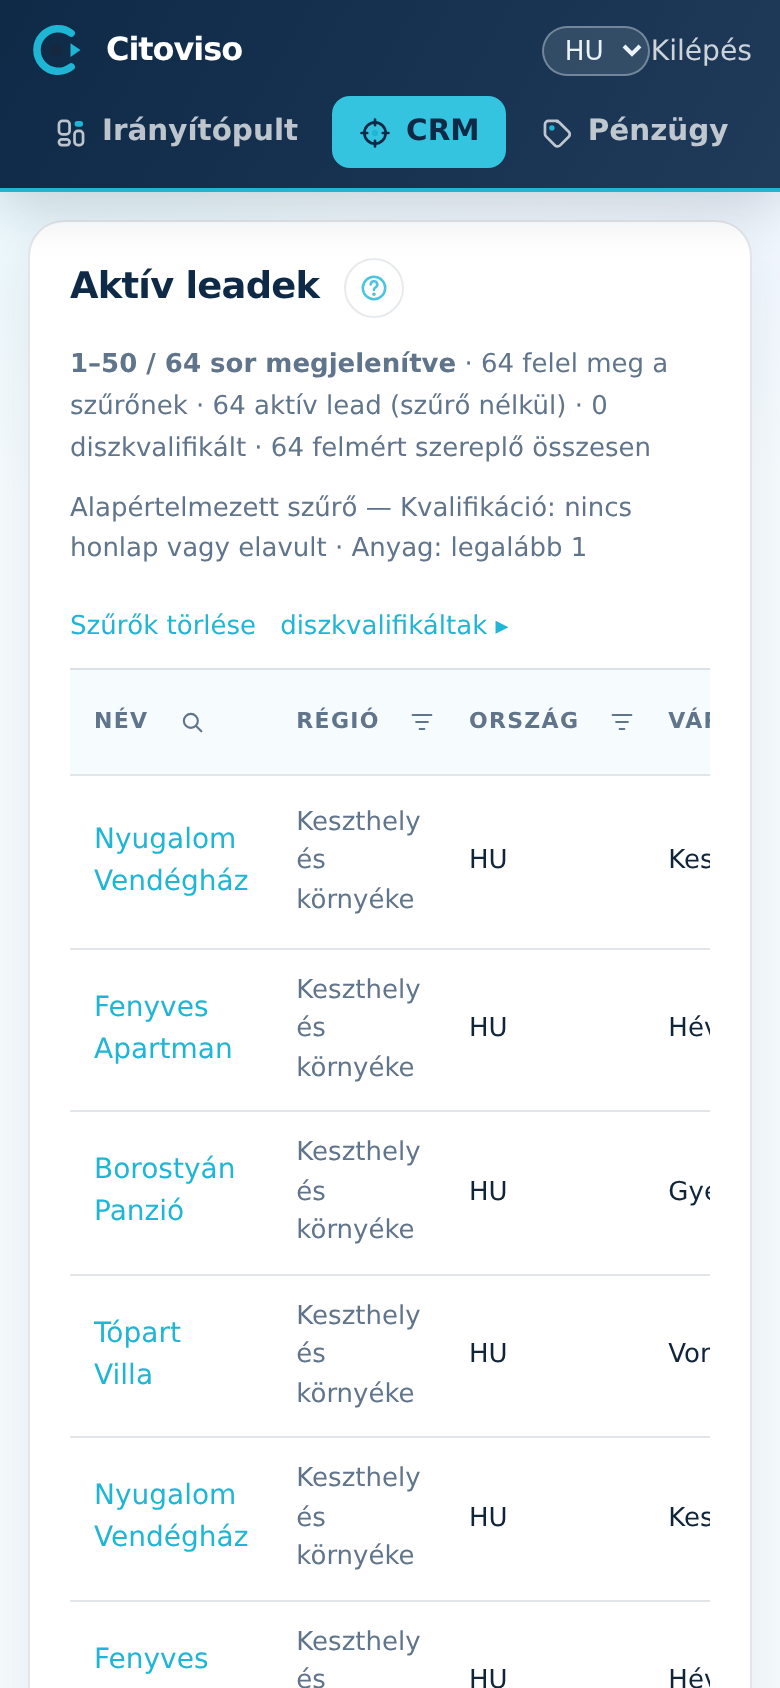
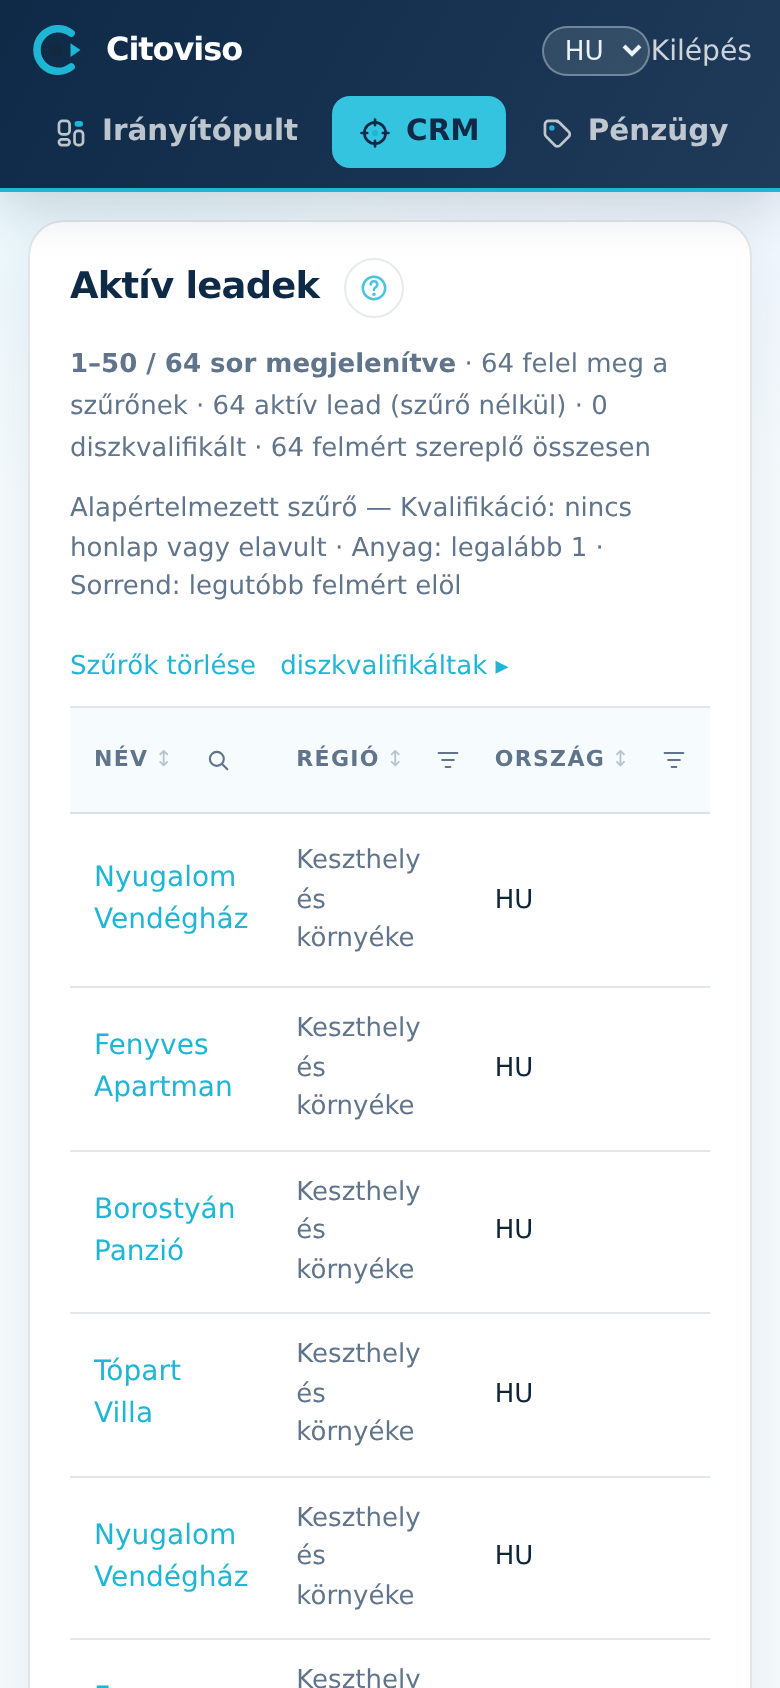
fix(lead-lista): a rendezés látszik is, a lap nem mond ellent magának, és megnevezi a sorrendjét
Az FK-003 újrafuttatása után a kiértékelő három leletet adott a MA szállított
felületre. Megmértem mind a hármat, és mind a három igaz volt.

① A RENDEZÉS LÁTHATATLAN VOLT. A nyíl csak a MÁR rendezett oszlopon jelent meg,
  tehát egy érintetlen listán semmi nem mondta, hogy a fejléc kattintható. Mérve:
  a link színe azonos a fejléc szövegével (rgb(96,116,139)), aláhúzás nincs —
  egyedül a `cursor:pointer` árulkodott, ami TELEFONON NEM LÉTEZIK. A tegnap
  bekötött tíz oszlopos rendezés így rejtett funkció volt. Most minden rendezhető
  fejléc halvány ↕-et visel, ami a rendezett oszlopon élő ↑/↓-re vált, és az
  oszlopnév kiemelt színt kap.
  Ráadás, ugyanitt: a rendezés visszaugrik az ELSŐ lapra — 593 sor újrarendezése
  közben a 6. lapon maradni annyi, mint a lista közepén ébredni.

② A LAP ELLENTMONDOTT MAGÁNAK. „nincs szűrő” és „593 felel meg a szűrőnek”
  egymás alatt, ~25 px-re. A találat-szám egy SZŰRŐRŐL tett állítás, ezért csak
  akkor jelenik meg, ha fut szűrő; szűrés nélkül az aktív állomány sem kap
  „(szűrő nélkül)” kiegészítést, mert nincs mihez képest.

③ A SORRENDNEK NEM VOLT NEVE. A lista mindig rendezve érkezik (legutóbb felmért
  elöl), de ezt semmi nem mondta ki — mérve a lap sehol nem említette. Most a
  szűrő-sor végén ott áll: „Sorrend: legutóbb felmért elöl”, rendezés után
  „Sorrend: Város (növekvő)”.

Őr: 94 → 111 állítás. Mindhárom lelethez szerkezeti állítás, és MINDHÁRMAT
visszarontva megmértem, hogy fog: ① 10 bukás ② 2 bukás ③ 1 bukás.
[…]

diff --git a/src/console/views.ts b/src/console/views.ts
@@ -724,12 +724,29 @@ function qs(q: LeadQuery, over: Record<string, string | number | boolean | undef
   return s ? `?${s}` : "/leads";
 }
 
-/** Sortable header link (toggles asc/desc; arrow shows current sort). */
+/**
+ * Sortable header link (toggles asc/desc).
+ *
+ * ⛔ Elek, 2026-09-12: the arrow only appeared on the ALREADY sorted column, so on an
+ * unsorted list nothing said the header was clickable at all — measured, the link had
+ * the same colour as the plain header text and no underline, leaving `cursor:pointer`
+ * as the sole hint, and a phone has no cursor. A ten-column sort feature nobody can
+ * see is not a feature. Every sortable header now carries a faint ↕ that turns into
+ * the live ↑/↓ when it is the active sort.
+ *
+ * Sorting also resets to page 1: re-ordering 593 rows while staying on page 6 lands
+ * the operator in the middle of a list they have not seen the start of.
+ */
 function sortHead(label: string, key: string, q: LeadQuery): string {
+  const lang = consoleLang();
   const active = q.sort === key;
   const nextDir = active && q.dir !== "asc" ? "asc" : "desc";
-  const arrow = active ? (q.dir === "asc" ? " ↑" : " ↓") : "";
-  return `<a href="${qs(q, { sort: key, dir: nextDir })}">${esc(label)}${arrow}</a>`;
+  const mark = active ? (q.dir === "asc" ? "↑" : "↓") : "↕";
+  return (
+    `<a class="con-sorth${active ? " on" : ""}" href="${qs(q, { sort: key, dir: nextDir, page: undefined })}"` +
+    ` title="${esc(T(lang, "Rendezés e szerint az oszlop szerint"))}">${esc(label)}` +
+    `<span class="con-sorth__m" aria-hidden="true">${mark}</span></a>`
+  );
 }
 
 function photoCell(n: number, sv: boolean): string {
@@ -1001,6 +1018,17 @@ export function leadsPage(result: LeadListResult, q: LeadQuery = {}): string {
     ? `${q.defaulted ? T(lang, "Alapértelmezett szűrő") : T(lang, "{n} aktív szűrő", { n: activeFilters.length })} — <span data-filter-summary>${esc(summaryText)}</span>`
     : `<span data-filter-summary>${T(lang, "nincs szűrő")}</span>`;
 
+  // ── What ORDER am I reading? ────────────────────────────────────────────────
+  // The list always arrives sorted, but until now only an ACTIVE sort said so — an
+  // untouched list came back newest-first with nothing naming that order, so the
+  // operator could not tell what they were scanning (Elek, 2026-09-12).
+  const sortLine = q.sort
+    ? T(lang, "Sorrend: {col} ({dir})", {
+        col: columnLabel(q.sort as LeadColumnKey, lang),
+        dir: q.dir === "asc" ? T(lang, "növekvő") : T(lang, "csökkenő"),
+      })
+    : T(lang, "Sorrend: legutóbb felmért elöl");
+
   // ── View switch that CARRIES the operator's state ───────────────────────────
   // Going "diszkvalifikáltak ▸" and back used to drop the query, so a cleared list
   // (593 rows) silently snapped back to the default 260 with no word said. The
@@ -1016,7 +1044,7 @@ export function leadsPage(result: LeadListResult, q: LeadQuery = {}): string {
   );
 
   const toolbar = `<div class="row" style="justify-content:space-between;align-items:center;gap:10px;margin-bottom:10px">
-    <span class="mut small">${filterLine}</span>
+    <span class="mut small">${filterLine} · <span data-sort-summary>${esc(sortLine)}</span></span>
     <span class="row" style="gap:12px">
       ${activeFilters.length ? `<a class="small" href="${clearHref}">${T(lang, "Szűrők törlése")}</a>` : ""}
       <a class="small" href="${switchHref}">${
@@ -1034,12 +1062,22 @@ export function leadsPage(result: LeadListResult, q: LeadQuery = {}): string {
     result.pageSize && counts.matching > pageRows.length
       ? T(lang, "{from}–{to} / {n} sor megjelenítve", { from, to, n: counts.matching })
       : T(lang, "mind a {n} sor megjelenítve", { n: counts.matching });
+  // ⛔ "593 felel meg a szűrőnek" stood 25px under "nincs szűrő" — the page asserting
+  // in one breath that there is no filter and that N rows satisfy it (Elek,
+  // 2026-09-12). The match segment is a statement ABOUT a filter, so it only appears
+  // when one is running; unfiltered, the pool count carries no "(szűrő nélkül)"
+  // qualifier either, because there is nothing to qualify it against.
+  const segments = [
+    `<b>${esc(shown)}</b>`,
+    activeFilters.length ? T(lang, "{n} felel meg a szűrőnek", { n: counts.matching }) : "",
+    activeFilters.length
+      ? T(lang, "{n} aktív lead (szűrő nélkül)", { n: counts.active })
+      : T(lang, "{n} aktív lead", { n: counts.active }),
+    T(lang, "{n} diszkvalifikált", { n: counts.disqualified }),
+    T(lang, "{n} felmért szereplő összesen", { n: counts.all }),
+  ].filter(Boolean);
   const countsLine = `<p class="mut small con-leadcount" data-lead-counts>
-    <b>${esc(shown)}</b>
-    · ${T(lang, "{n} felel meg a szűrőnek", { n: counts.matching })}
-    · ${T(lang, "{n} aktív lead (szűrő nélkül)", { n: counts.active })}
-    · ${T(lang, "{n} diszkvalifikált", { n: counts.disqualified })}
-    · ${T(lang, "{n} felmért szereplő összesen", { n: counts.all })}
+    ${segments.join(" · ")}
   </p>`;
 
   // Column headers carry `data-col` + the column's MEANING as a tooltip — the guard

diff --git a/public/assets/ui/citui-console.css b/public/assets/ui/citui-console.css
@@ -566,6 +566,13 @@ body.con {
    Every number the list prints now says WHAT it counts, and a 260-row result no
    longer scrolls off into nothing with no "where am I" (Elek FK-003). */
 .con .con-leadcount { margin: 2px 0 6px; line-height: 1.6; }
+/* Sortable header: the ↕ is the ONLY thing that says "this name is clickable" —
+   colour and underline match the plain header text, and a phone has no cursor. */
+.con .con-sorth { text-decoration: none; color: inherit; white-space: nowrap; }
+.con .con-sorth__m { margin-left: 3px; opacity: 0.4; font-weight: 400; }
+.con .con-sorth:hover .con-sorth__m { opacity: 0.9; }
+.con .con-sorth.on { color: var(--citui-cyan-500); }
+.con .con-sorth.on .con-sorth__m { opacity: 1; }
 .con .con-pager { display: flex; flex-wrap: wrap; gap: 6px; align-items: center; margin-top: 12px; }
 .con .con-pager__p, .con .con-pager__at, .con .con-pager__off, .con .con-pager__gap {
   min-width: 32px; text-align: center; padding: 5px 8px; border-radius: 7px; font-size: 13px;

diff --git a/kb/entries/console-leads/entry.hu.md b/kb/entries/console-leads/entry.hu.md
@@ -18,6 +18,8 @@ A cím alatti sor minden számot megnevez, mert önmagában egyik sem mond semmi
 
 - „1–50 / 260 sor megjelenítve” — amennyi ezen a lapon látszik.
 - „260 felel meg a szűrőnek” — a jelenlegi szűrés teljes találati halmaza (ennyin lapozol végig).
+  Ez a tétel **csak akkor jelenik meg, ha tényleg fut szűrő** — szűrés nélkül nincs mihez
+  „megfelelni”.
 - „593 aktív lead (szűrő nélkül)” — minden nem diszkvalifikált szereplő.
 - „2 diszkvalifikált” — akiket kizártál.
 - „595 felmért szereplő összesen” — a teljes gyűjtött állomány, a két nézet együtt.
@@ -53,11 +55,15 @@ A táblázat fejléce nem csak felirat — szűrő **és** rendező is. A kettő
   akarod, vedd ki a Match-szűrőt.
 - **Név-keresés:** a Név oszlop **nagyító ikonja** alatt gépelhetsz, és a lista a meglévő nevekből
   ajánl.
-- **Rendezés:** **bármelyik oszlop nevére** koppintva rendezel — a felirat mellé ↑ vagy ↓ nyíl
-  kerül, újabb koppintás megfordítja. Ha csak szűrni akartál, ügyelj rá, hogy az ikont találd el,
-  ne a nevet. A szöveges oszlopok a **magyar ábécé** szerint rendeződnek, tehát az Á, É, Ó, Ö, Ü
-  kezdetű nevek a helyükön vannak, nem a lista végén. Ahol nincs adat („–”), azok a sorok
-  növekvő rendezésnél elöl, csökkenőnél hátul csoportosulnak.
+- **Rendezés:** **bármelyik oszlop nevére** koppintva rendezel. Amelyik oszlopnév mellett halvány
+  **↕** áll, az rendezhető — vagyis mind. Koppintás után a nyíl a valódi irányt mutatja (↑ növekvő,
+  ↓ csökkenő), az oszlopnév kiemelt színű lesz, újabb koppintás megfordítja; a lista visszaugrik az
+  első lapra. Ha csak szűrni akartál, ügyelj rá, hogy az ikont találd el, ne a nevet.
+  A szöveges oszlopok a **magyar ábécé** szerint rendeződnek, tehát az Á, É, Ó, Ö, Ü kezdetű nevek
+  a helyükön vannak, nem a lista végén. Ahol nincs adat („–”), azok a sorok növekvő rendezésnél
+  elöl, csökkenőnél hátul csoportosulnak.
+- **Mindig látod, mi szerint olvasod a listát:** a szűrő-sor végén ott a sorrend
+  („Sorrend: legutóbb felmért elöl”, rendezés után pl. „Sorrend: Város (növekvő)”).
 
 A szűrésed akkor is megmarad, ha közben **kiürítesz** egy fejléc-szűrőt: a
 **„Szűrők törlése”**-vel kapott teljes listáról nem esel vissza az alapértelmezettre.
